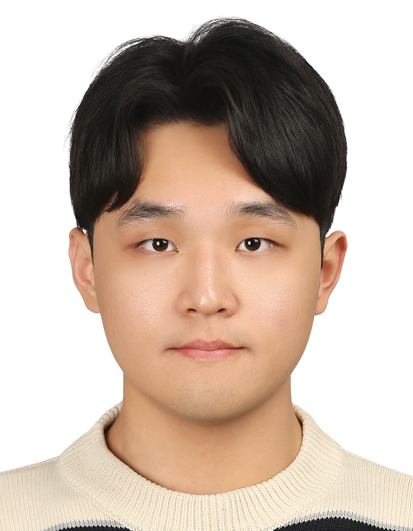
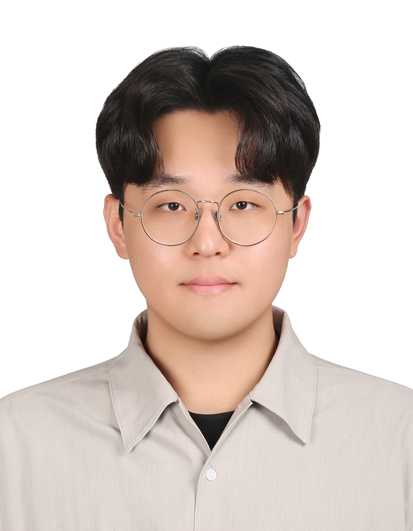
기타 활동에 덕영고 디지털 튜터, 지방기능경기대회 멘토 활동 추가

diff --git a/index.html b/index.html
@@ -1793,6 +1793,30 @@
             <div class="activities-grid">
                 <div class="activity-card fade-in">
                     <span class="activity-category instructor">강사</span>
+                    <div class="activity-period">2026.03.16 - 2027.12.31</div>
+                    <h3 class="activity-title">디지털 튜터</h3>
+                    <div class="activity-organization">덕영 고등학교</div>
+                    <p class="activity-description">
+                        덕영고등학교에서 디지털 튜터로 활동하며 학생들의 소프트웨어·게임 개발 학습을 지원하고 있습니다.
+                    </p>
+                </div>
+
+                <div class="activity-card fade-in">
+                    <span class="activity-category instructor">강사</span>
+                    <div class="activity-period">2026.03.09 - 2026.04.03</div>
+                    <h3 class="activity-title">지방기능경기대회 게임부문 멘토</h3>
+                    <div class="activity-organization">덕영 고등학교</div>
+                    <p class="activity-description">
+                        덕영고등학교에서 지방기능경기대회 게임부문 멘토를 맡아 4명의 학생을 지도하였습니다.<br>
+                        게임 개발 실기 준비 과정을 함께하며 대회 출전을 위한 멘토링을 진행하였습니다.
+                    </p>
+                    <div class="activity-achievements">
+                        <div class="achievement-item">멘토링 학생 4명 중 2명 전국기능경기대회 출전 자격 획득</div>
+                    </div>
+                </div>
+
+                <div class="activity-card fade-in">
+                    <span class="activity-category instructor">강사</span>
                     <div class="activity-period">2025.01.13 - 2025.01.24</div>
                     <h3 class="activity-title">알고리즘 강사</h3>
                     <div class="activity-organization">덕영 고등학교</div>
